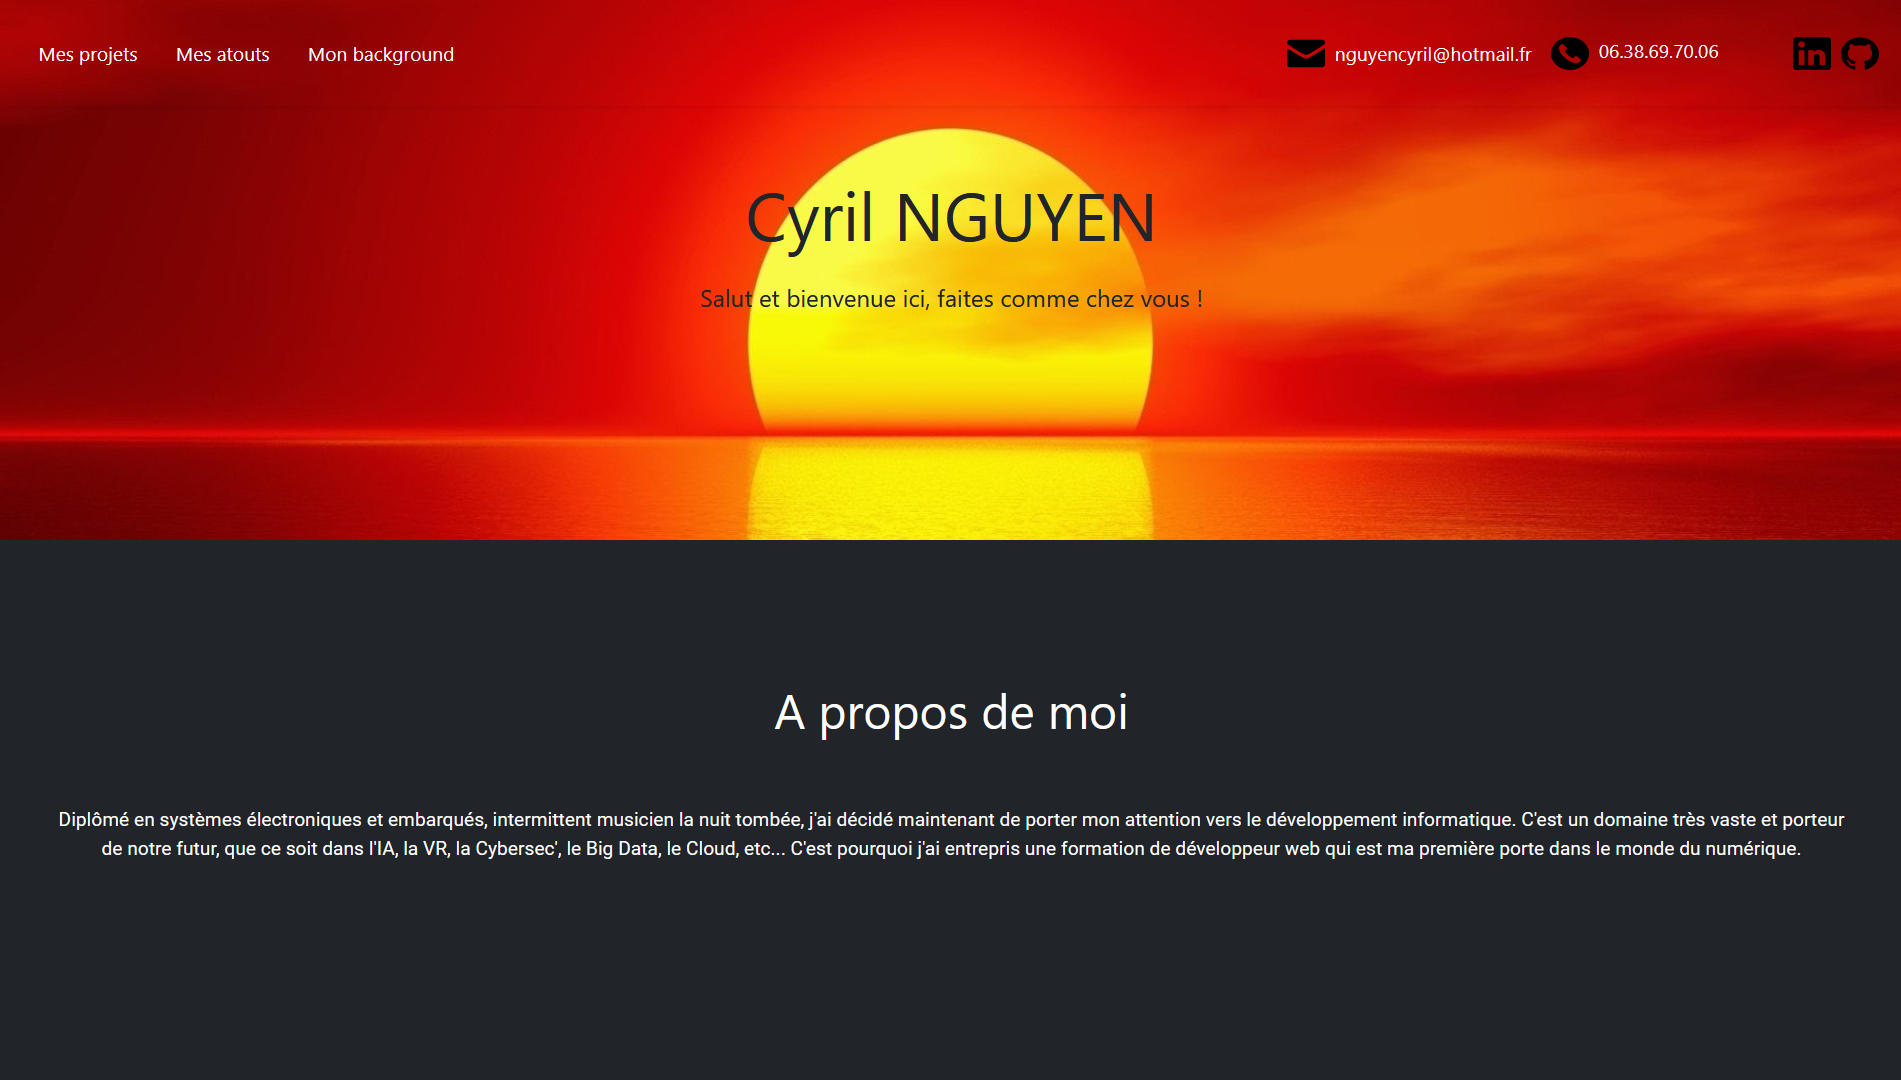
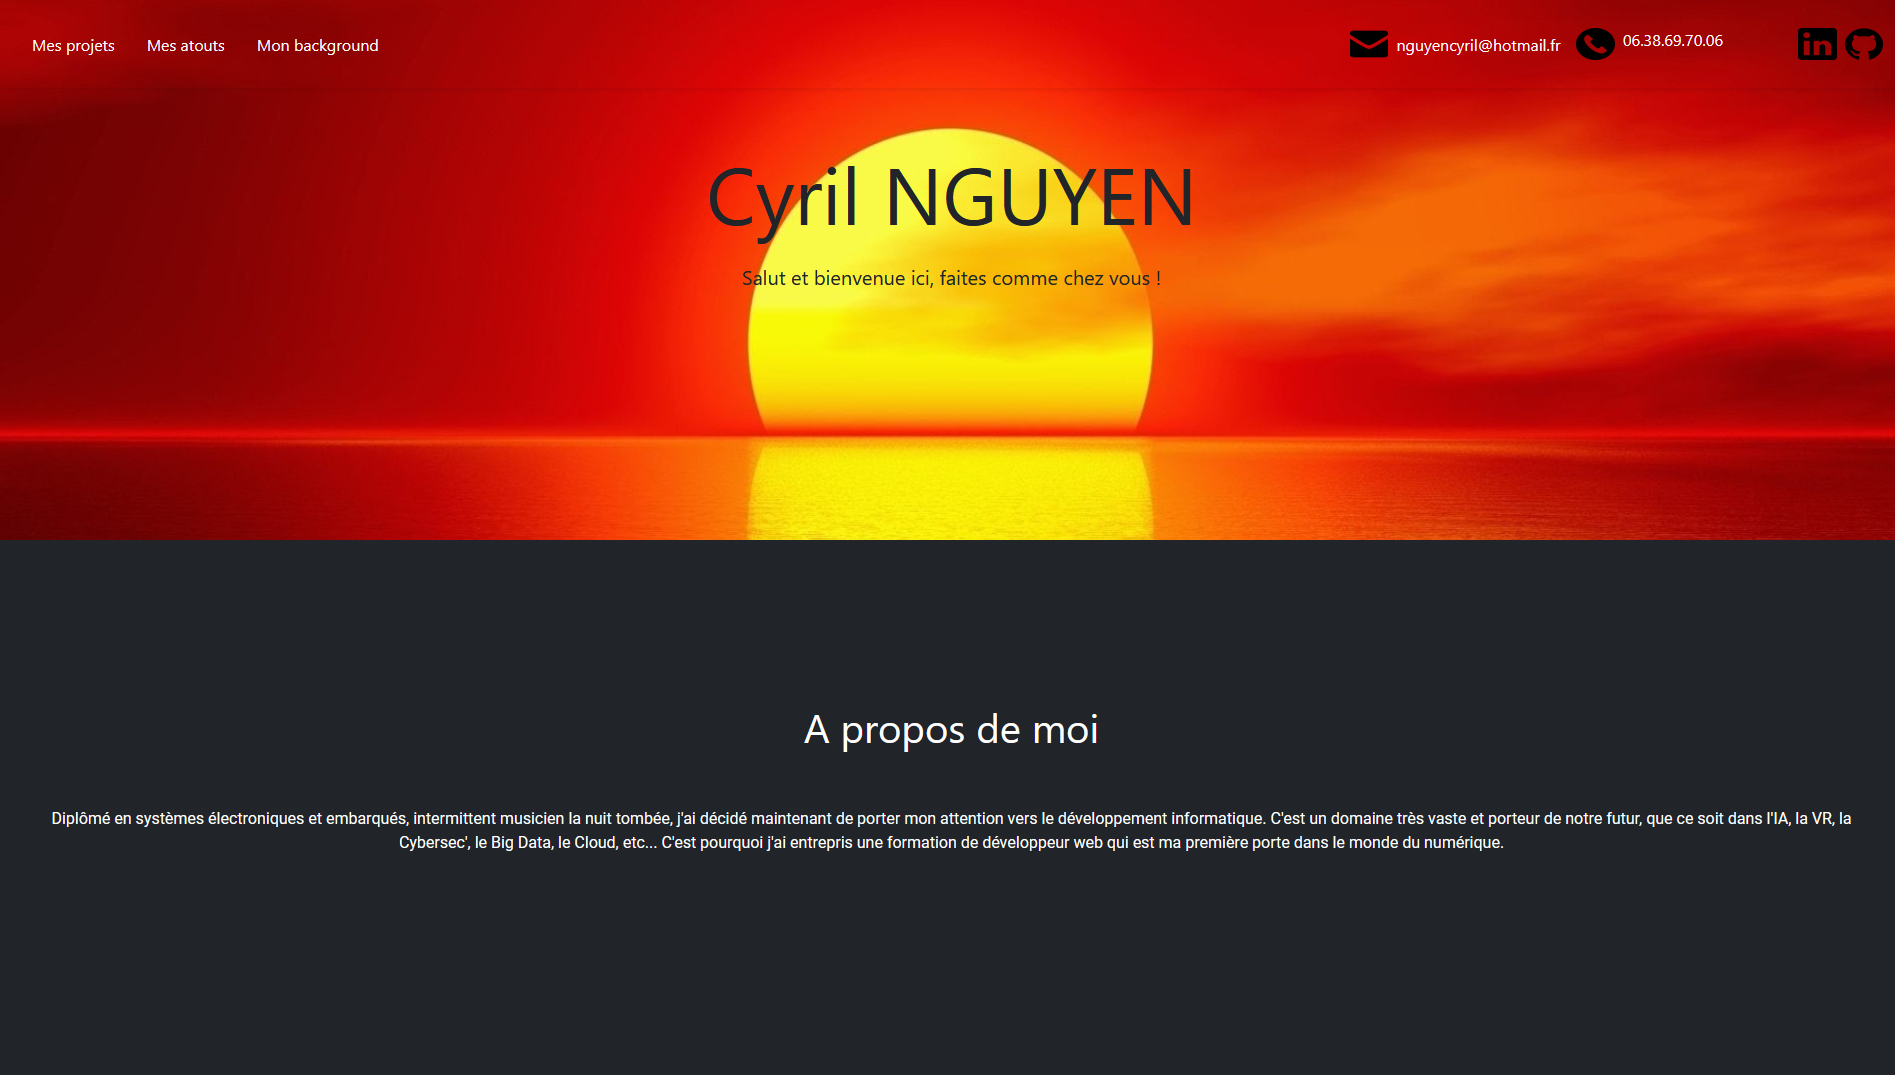
fix + change color of website v2 + images

diff --git a/css/style.css b/css/style.css
@@ -26,6 +26,11 @@ h, p {
     width: 7vw;
 }
 
+.logo-css {
+    height: 9vh;
+    width: 5.25vw;
+}
+
 .logo-h {
     height: 7vh;
     width: 5vw;
@@ -46,9 +51,9 @@ h, p {
 }
 
 .bg-purple {
-    background-color: #aa58de; 
+    background-color: #b30305; 
 }
 
 .text-purple {
-    color : #aa58de;
+    color : #b30305;
 }

diff --git a/index.php b/index.php
@@ -1,5 +1,6 @@
 <!DOCTYPE html>
 <html lang="en">
+
 <head>
     <meta charset="UTF-8">
     <meta http-equiv="X-UA-Compatible" content="IE=edge">
@@ -10,11 +11,12 @@
 
     <link rel="preconnect" href="https://fonts.gstatic.com">
     <link href="https://fonts.googleapis.com/css2?family=Roboto:wght@400;700&display=swap" rel="stylesheet">
-    
+
     <link rel="stylesheet" href="/css/style.css">
 
     <title>Home</title>
 </head>
+
 <body>
 
     <?php include("./template/header.php"); ?>
@@ -23,23 +25,22 @@
         <!--  About me  -->
         <article id="about-me" class="p-5 container-fluid d-flex flex-column justify-content-center align-items-center bg-dark text-white vh-half">
             <header>
-                <div class="">
-                    <h1>A propos de moi</h1>
-                </div>
+                <h1>A propos de moi</h1>
             </header>
             <section class="my-5">
                 <div class="text-center">
                     <p>Diplômé en systèmes électroniques et embarqués, intermittent musicien la nuit tombée, j'ai décidé maintenant de porter
                         mon attention vers le développement informatique. C'est un domaine très vaste et porteur de notre futur, que ce soit
                         dans l'IA, la VR, la Cybersec', le Big Data, le Cloud, etc... C'est pourquoi j'ai entrepris une formation de développeur web
-                        qui est ma première porte dans le monde du numérique.</p>
+                        qui est ma première porte dans le monde du numérique.
+                    </p>
                 </div>
             </section>
         </article>
 
 
         <!--  Mes projets  -->
-        <article id="projects" class="p-5">
+        <article id="projects" class="mt-5">
             <header>
                 <div class="d-flex justify-content-center">
                     <h1>Mes projets</h1>
@@ -47,102 +48,54 @@
             </header>
 
             <section class="my-5">
-                <div class="container">
+                <div class="container-fluid">
                     <div class="row">
-                        <div class="col-6 pe-3">
-                            <figure><img class="img-fluid shadow" src="/img/website.png" alt="desc img-1"></figure>
+                        <div class="col px-5">
+                            <figure>
+                                <img class="img-fluid shadow" src="/img/website.png" alt="personal website image">
+                            </figure>
                         </div>
-                        
-                        <div class="col-6 ps-3">
-                            <header>
-                                <div class="row mb-3">
-                                    <div class="col">
-                                        <h2>Portfolio</h2>
+
+                        <div class="col px-5">
+                            <div class="d-flex justify-content-center">
+                                <header>
+                                    <h2>Website personnel</h2>
+                                </header>
+                            </div>
+
+                            <div class="mt-3">
+                                <p class="lh-lg">Ce projet personnel consiste à me faire découvrir et manipuler les langages de programmation Web tel
+                                    que HTML, CSS (framework Bootstrap). Utiliser JS pour la manipulation du DOM et les requêtes AJAX pour
+                                    actualiser la vue du website. Gestion côté serveur avec PHP. Déployer le website sur la plateforme Heroku
+                                    avec MySQL comme BDD.
+                                </p>
+                                <p>Le website présentera mes projets en cours et à venir !</p>
+                            </div>
+
+                            <div class="mt-5">
+                                <div class="d-flex justify-content-center">
+                                    <h4 class="text-purple">Technologies utilisées</h4>
+                                </div>
+
+                                <div class="row mt-4">
+                                    <div class="col d-flex justify-content-center">
+                                        <img class="logo-techno" src="/img/js-red.png" alt="logo JS">
+                                    </div>
+                                    <div class="col d-flex justify-content-center">
+                                        <img class="logo-techno" src="/img/php-red.png" alt="logo PHP">
+                                    </div>
+
+                                    <div class="col d-flex justify-content-center">
+                                        <img class="logo-techno" src="/img/html5-red.png" alt="logo HTML">
+                                    </div>
+                                    <div class="col d-flex justify-content-center">
+                                        <img class="logo-css" src="/img/css3-red.png" alt="logo CSS">
+                                    </div>
+                                    <div class="col d-flex justify-content-center">
+                                        <img class="logo-techno" src="/img/bootstrap-red.png" alt="logo BS">
                                     </div>
                                 </div>
-                            </header>
-
-                            <div class="row mb-3">
-                                <div class="col">
-                                    <p>Il consiste à me faire découvrir et manipuler les langages de programmation Web tel que HTML, CSS (framework bootstrap) et JS pour la vue d'un site. Déployer le portfolio sur le web.</p>
-                                    <p>Le portfolio présentera mes projets en cours et à venir !</p>
-                                </div>
                             </div>
-
-                            <div class="row mb-3">
-                                <div class="col">
-                                    <h2>Technologies utilisées</h2>
-                                </div>
-                            </div>
-                            
-                            <div class="row">
-                                <div class="col-3">
-                                    <img class="logo-techno" src="https://upload.wikimedia.org/wikipedia/commons/6/61/HTML5_logo_and_wordmark.svg" alt="logo HTML">
-                                </div>
-                                <div class="col-3">
-                                    <img class="logo-techno" src="https://upload.wikimedia.org/wikipedia/commons/d/d5/CSS3_logo_and_wordmark.svg" alt="logo CSS">
-                                </div>
-                                <div class="col-3">
-                                    <img class="logo-techno" src="https://upload.wikimedia.org/wikipedia/commons/9/99/Unofficial_JavaScript_logo_2.svg" alt="logo JS">
-                                </div>
-                                <div class="col-3">
-                                    <img class="logo-techno" src="https://upload.wikimedia.org/wikipedia/commons/b/b2/Bootstrap_logo.svg" alt="logo BS">
-                                </div>
-                            </div>
-                        </div>
-                    </div>
-                </div>
-            </section>
-
-            <section class="my-5">
-                <div class="container">
-                    <div class="row">
-                        <div class="col-6 pe-3">
-                            <header>
-                                <div class="row mb-2">
-                                    <div class="col">
-                                        <h2>Site de location de vacances</h2>
-                                    </div>
-                                </div>
-                            </header>
-
-                            <div class="row mb-3">
-                                <div class="col">
-                                    <p>Ce projet a pour but de de manipuler Javascript pour le côté Client et Serveur.</p>
-                                    <p>Au niveau du client, j'ai fait de la manipulation de DOM et intéragit avec le serveur avec l'API Fetch utilisant
-                                        le protocole AJAX. Je me suis basé sur un template pour plus me focaliser sur la relation Client-Serveur
-                                        et le transfert des données à travers les divers couches, le but ici n'était pas de designer les vues du site.
-                                    </p>
-                                    <p>Au niveau du serveur, j'ai utilisé MySQLWorkbench pour stocker mes données préalablement écrites en dur dans
-                                        un fichier. Les contrôleurs vont recevoir les requêtes du client et procéder à envoyer une réponse suivant les
-                                        données retirées de la BDD. Pour la partie authentification de l'administrateur, un token JWT est généré lors de
-                                        la validation de ses identifiants et sera stocké dans un cookie. Le cookie sera transféré dans le header des
-                                        requêtes HTTP.
-                                    </p>
-                                </div>
-                            </div>
-
-                            <div class="row">
-                                <div class="col-2">
-                                    <img class="logo-techno" src="https://upload.wikimedia.org/wikipedia/commons/6/61/HTML5_logo_and_wordmark.svg" alt="logo HTML">
-                                </div>
-                                <div class="col-2">
-                                    <img class="logo-techno" src="https://upload.wikimedia.org/wikipedia/commons/d/d5/CSS3_logo_and_wordmark.svg" alt="logo CSS">
-                                </div>
-                                <div class="col-2">
-                                    <img class="logo-techno" src="https://upload.wikimedia.org/wikipedia/commons/9/99/Unofficial_JavaScript_logo_2.svg" alt="logo JS">
-                                </div>
-                                <div class="col-2">
-                                    <img class="logo-techno" src="https://upload.wikimedia.org/wikipedia/commons/6/64/Expressjs.png" alt="logo EXPRESS">
-                                </div>
-                                <div class="col-4">
-                                    <img class="logo-techno" src="https://atomrace.com/blog/wp-content/uploads/2016/03/jwt-json-web-token-avec-angular-js.png" alt="logo JWT">
-                                </div>
-                            </div>
-                        </div>
-                    
-                        <div class="col-6 ps-3">
-                            <figure><img class="img-fluid shadow" src="https://mdbootstrap.com/img/Photos/Others/images/77.jpg" alt="desc img-1"></figure>
                         </div>
                     </div>
                 </div>
@@ -158,4 +111,5 @@
 
     <?php include_once("./template/footer.php") ?>
 </body>
+
 </html>

diff --git a/template/footer.php b/template/footer.php
@@ -3,13 +3,13 @@
         <div class="row">
             <div class="m-1 col d-flex justify-content-center">
                 <div class="m-1">
-                    <a target="_blank" href="https://www.wikipedia.org">
-                        <img class="logo-f" src="https://upload.wikimedia.org/wikipedia/commons/c/ca/LinkedIn_logo_initials.png" alt="linkedin">
+                    <a target="_blank" href="https://www.linkedin.com/in/cyril-nguyen-0966a31a0">
+                        <img class="logo-f" src="/img/linkedin-white.png" alt="linkedin">
                     </a>
                 </div>
-                <div class="m-1">
-                    <a target="_blank" href="https://www.wikipedia.org">
-                        <img class="logo-f" src="https://pngimg.com/uploads/github/github_PNG70.png" alt="github">
+                <div class="m-1 ms-2">
+                    <a target="_blank" href="https://github.com/ginginyo">
+                        <img class="logo-f" src="/img/github-white.png" alt="github">
                     </a>
                 </div>
             </div>
@@ -18,14 +18,14 @@
         <div class="row">
             <div class="m-1 col d-flex justify-content-center">
                 <div class="m-1">
-                    <img class="logo-f" src="https://upload.wikimedia.org/wikipedia/commons/e/ec/Circle-icons-mail.svg" alt="logo HTML">
+                    <img class="logo-f" src="/img/mail-white.png" alt="logo HTML">
                 </div>
                 <div class="m-1">
                     nguyencyril@hotmail.fr
                 </div>
 
-                <div class="m-1">
-                    <img class="logo-f" src="https://upload.wikimedia.org/wikipedia/commons/8/83/Circle-icons-phone.svg" alt="logo HTML">
+                <div class="m-1 ms-2">
+                    <img class="logo-f" src="/img/phone-white.png" alt="logo HTML">
                 </div>
                 <div class="m-1">
                     06.38.69.70.06

diff --git a/template/header.php b/template/header.php
@@ -40,7 +40,7 @@
             <div class="col-1">
                 <ul class="navbar-nav me-auto d-flex justify-content-end">
                     <li class="mx-1 nav-item d-flex align-items-center">
-                        <a href="https://www.linkedin.com/in/cyril-nguyen-0966a31a0/"><img class="logo-f" src="img/linkedin.png" alt="linkedin"></a>
+                        <a href="https://www.linkedin.com/in/cyril-nguyen-0966a31a0"><img class="logo-f" src="img/linkedin.png" alt="linkedin"></a>
                     </li>
                     <li class="mx-1 nav-item d-flex align-items-center">
                         <a href="https://github.com/ginginyo"><img class="logo-f" src="/img/github.png" alt="github"></a>
@@ -54,7 +54,7 @@
                 <div class="row mt-5">
                     <div class="col">
                         <div class="my-5">
-                            <h1 class="display-4 d-flex justify-content-center"><strong>Cyril NGUYEN</strong></h1>
+                            <h1 class="display-1 d-flex justify-content-center"><strong>Cyril NGUYEN</strong></h1>
                             <h2 class="lead d-flex justify-content-center mt-4"><strong>Salut et bienvenue ici, faites comme chez vous !</strong></h2>
                         </div>
                     </div>

diff --git a/content/skill.php b/content/skill.php
@@ -43,6 +43,7 @@
                         <p>Docker</p>
                         <p>Node.js</p>
                         <p>Apache</p>
+                        <p>MySQL Workbench</p>
                         <p>Trello</p>
                     </div>
                 </div>

diff --git a/content/formation.php b/content/formation.php
@@ -4,7 +4,7 @@
     </div>
 </header>
 
-<div id="formations" class="container my-5">
+<div id="formations" class="container-fluid my-5">
 
     <template id="template-formations">
         <section>

diff --git a/README.md b/README.md
@@ -7,14 +7,15 @@ Steps :
 - Deployment on Heroku (TEST)
 - Implement sections v2
 - request database for data
-- (NEXT) change color of the website
+- change color of the website + images
 - (NEXT) make the website responsive
+- (NEXT) change to POO
 
 Tools : 
 - Docker
-- Git
+- Git (with Github)
 - Heroku
-- MySQL
+- MySQL (with MySQL Workbench)
 - VSCode
 
 Languages :
